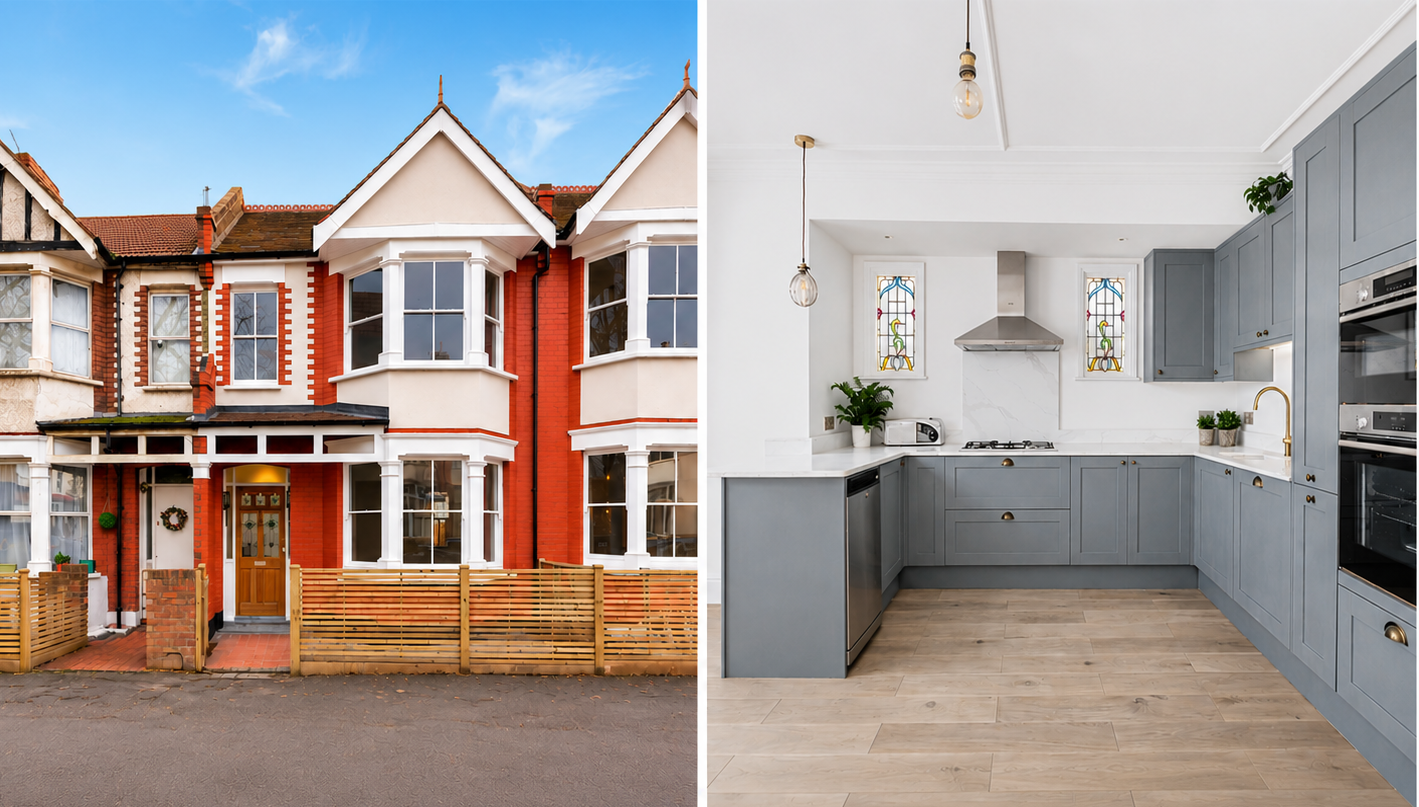
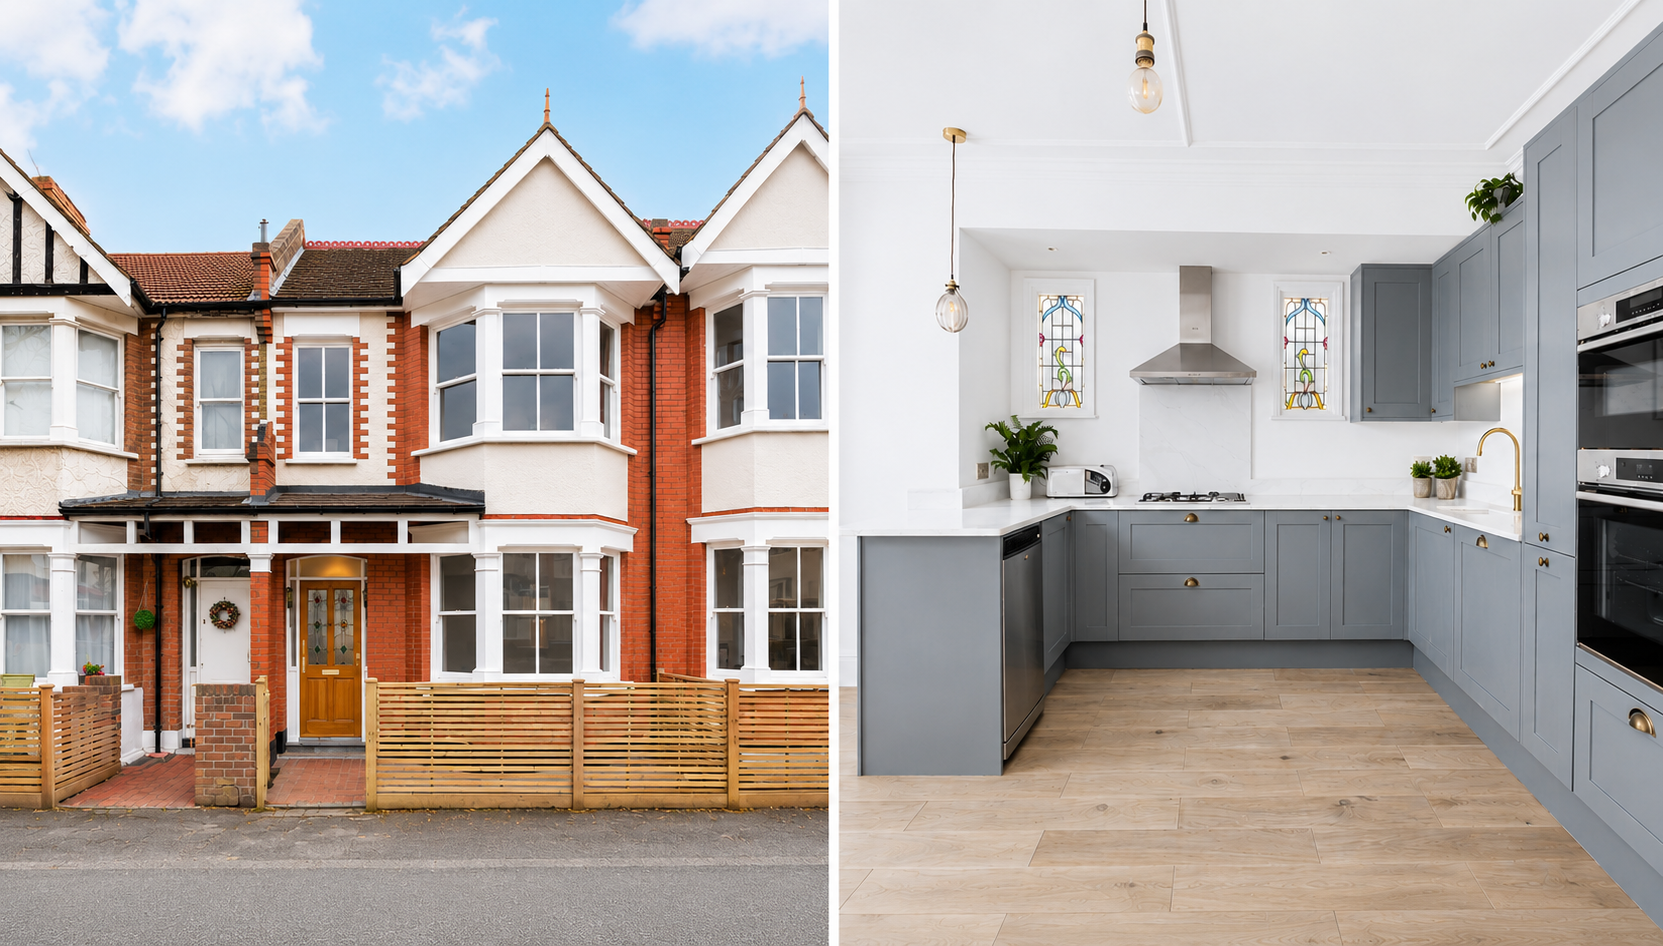
Fix Penge case study image layout to match standard format

diff --git a/case-studies/no-valuation-rebridge-refurbishment-Penge-south-east-london.html b/case-studies/no-valuation-rebridge-refurbishment-Penge-south-east-london.html
@@ -131,11 +131,6 @@
 <div id="site-nav"></div>
 <div class="wrap"><nav class="breadcrumb" aria-label="Breadcrumb"><ol><li><a href="../index.html">Home</a></li><li><a href="index.html">Case Studies</a></li><li>No Valuation Rebridge — Penge, South East London</li></ol></nav></div>
 
-<!-- Property photo -->
-<div style="width:100%;max-height:480px;overflow:hidden;line-height:0">
-  <img src="../images/Penge-bridging-loan-case-study.png" alt="Refurbished property in Penge, South East London — no valuation rebridge case study" style="width:100%;height:480px;object-fit:cover;object-position:center;display:block">
-</div>
-
 <!-- Hero -->
 <div class="cs-hero">
   <div class="wrap">
@@ -170,6 +165,12 @@
       <div class="snap-label">Desktop only</div>
     </div>
   </div>
+</div>
+
+<!-- Property photo -->
+<div style="max-width:900px;margin:32px auto 0;padding:0 clamp(20px,5vw,56px)">
+  <img src="../images/Penge-bridging-loan-case-study.png" alt="Refurbished property in Penge, South East London — no valuation rebridge case study" style="width:100%;height:420px;object-fit:cover;object-position:center;border-radius:16px;display:block;">
+  <p style="font-size:12px;color:var(--m);margin:8px 0 0;text-align:right">Penge, South East London — security property</p>
 </div>
 
 <!-- Body -->